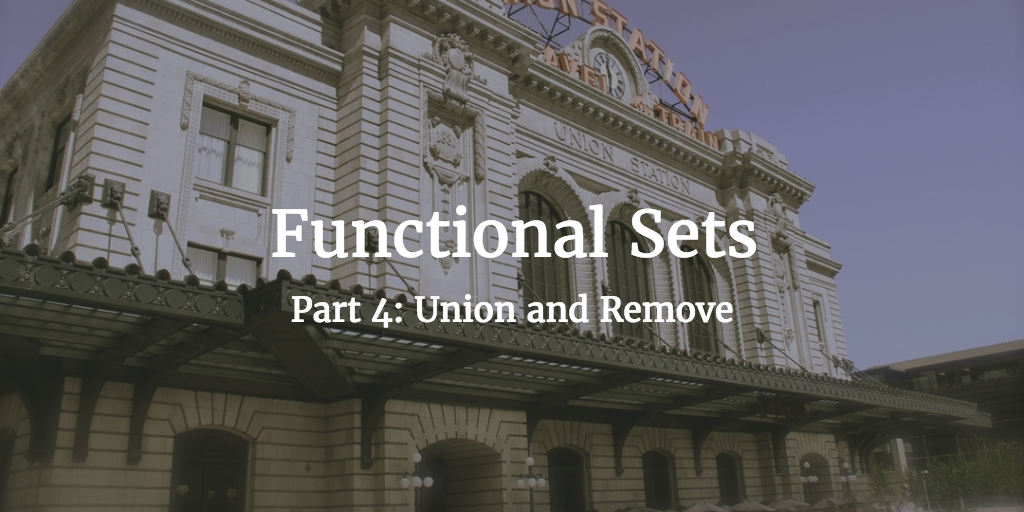
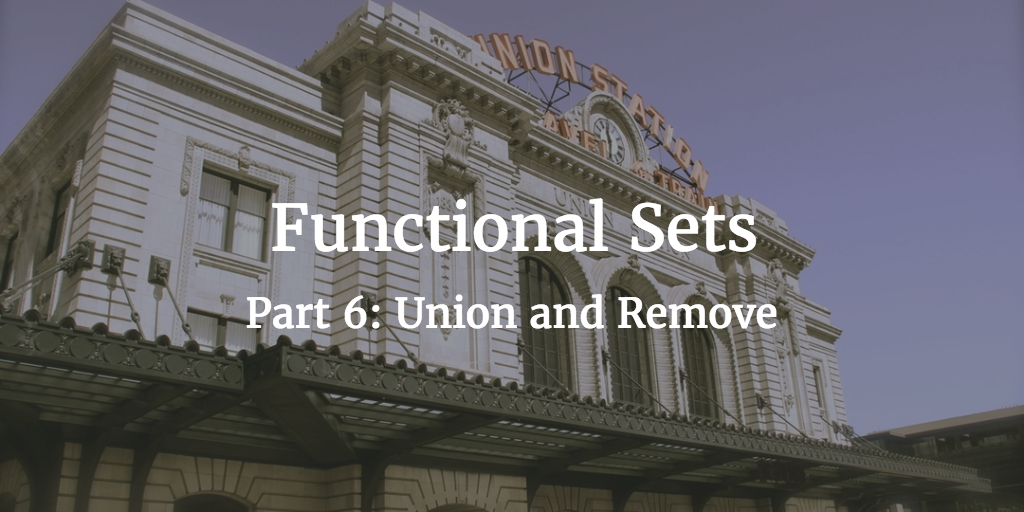
post(sets-union-remove): update place in series

diff --git a/content/post/sets-union-remove.md b/content/post/sets-union-remove.md
@@ -1,6 +1,6 @@
 ---
-date: "2016-12-12T09:00:00-06:00"
-title: "Functional Sets, Part 4: Union and Remove"
+date: "2017-01-02T09:00:00-06:00"
+title: "Functional Sets, Part 6: Union and Remove"
 tags: ["elm"]
 featureimage: "/images/union-station-by-tatiana-latino.jpeg"
 thumbnail: "/images/union-station-by-tatiana-latino-with-title.png"
@@ -73,7 +73,7 @@ Let's see!
 We want this call to look like:
 
 ```elm
-remove 1 (fromList [1, 2]) == singleton 1
+remove 1 (fromList [1, 2]) == singleton 2
 ```
 
 If the set is empty or doesn't contain the value, we shouldn't do anything.
